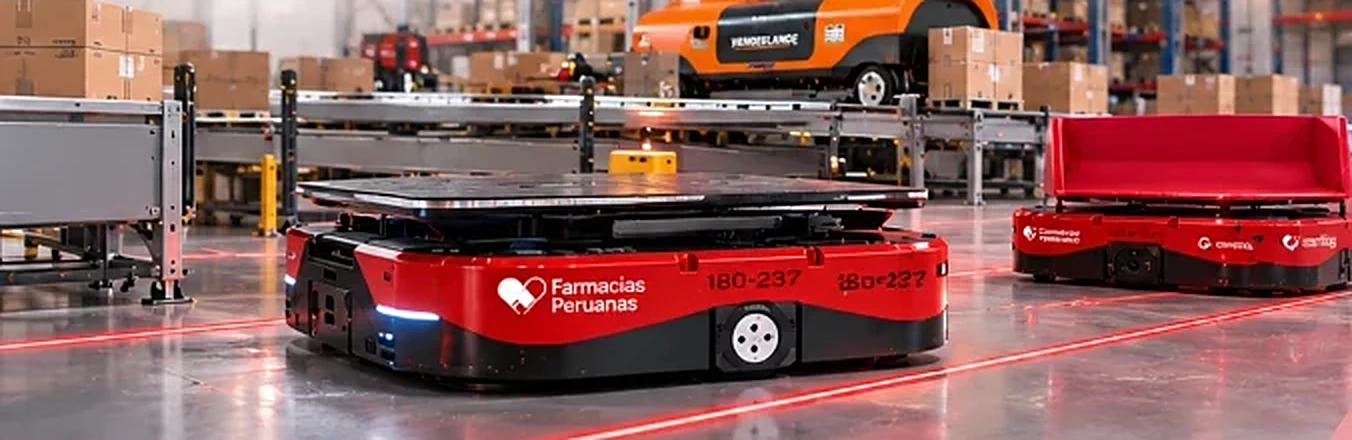
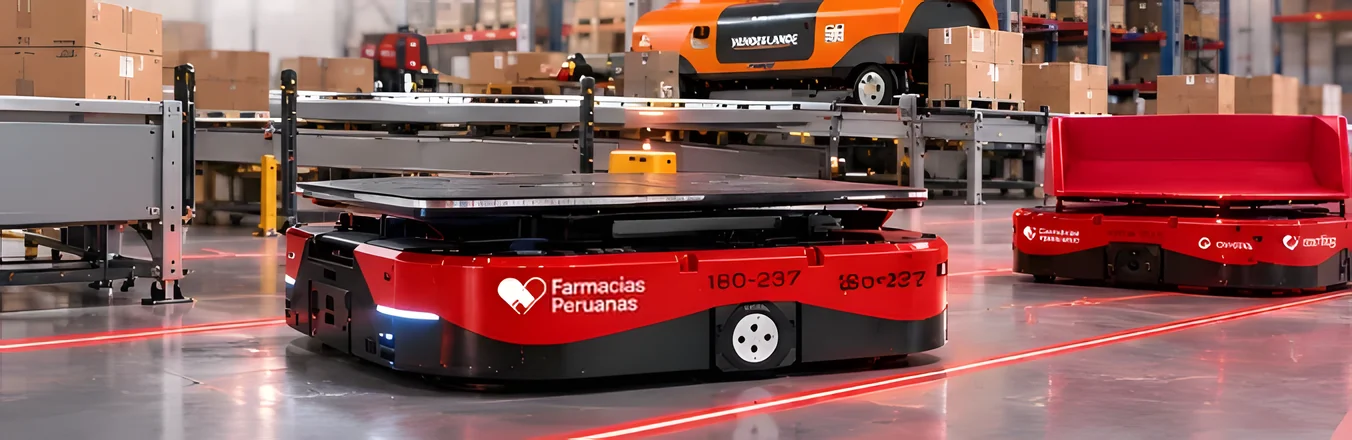
60%

diff --git a/frontend/src/index.html b/frontend/src/index.html
@@ -10,9 +10,7 @@
   <meta name="apple-mobile-web-app-title" content="Atlas">
   <meta name="description" content="Atlas — Plataforma de Ingeniería Logística de Farmacias Peruanas">
   <meta name="color-scheme" content="light dark">
-  <link rel="icon" type="image/png" sizes="64x64" href="faviconFape.png">
-  <link rel="icon" type="image/png" sizes="32x32" href="marca/fp-icono-32.png">
-  <link rel="icon" type="image/png" sizes="192x192" href="marca/fp-icono-192.png">
+  <link rel="icon" type="image/png" sizes="64x64" href="atlasImg.png">
   <link rel="apple-touch-icon" sizes="180x180" href="marca/fp-apple-touch.png">
   <link rel="prefetch" href="marca/atlas-carga.webp">
   <link rel="preconnect" href="https://fonts.googleapis.com">

diff --git a/frontend/src/app/features/auth/login/login.html b/frontend/src/app/features/auth/login/login.html
@@ -1,7 +1,12 @@
 <div class="login">
   <section #hero class="login__hero">
     <div class="login__foto" aria-hidden="true">
-      <img src="marca/login-almacen.webp" alt="" width="1352" height="440" fetchpriority="high" />
+      <img
+        src="marca/login-almacen.webp"
+        srcset="marca/login-almacen-800.webp 800w, marca/login-almacen.webp 1352w, marca/login-almacen-2704.webp 2704w"
+        sizes="(max-width: 1023px) 100vw, 69vw"
+        alt="" width="2704" height="880" fetchpriority="high" decoding="async" />
+
       <span class="login__laser"></span>
     </div>
     <span class="login__cinta" aria-hidden="true"></span>

diff --git a/frontend/src/app/features/panels/panel-shell.html b/frontend/src/app/features/panels/panel-shell.html
@@ -11,7 +11,7 @@
     [attr.inert]="!escritorio() && !drawerAbierto() ? '' : null"
   >
     <div class="shell__brand">
-      <img class="shell__brand-mark" src="marca/atlas-marca.webp" alt="Atlas" width="40" height="40" />
+      <img class="shell__brand-mark" src="atlasImg.png" alt="Atlas" width="40" height="40" />
       <span class="shell__brand-text">
         <span class="shell__brand-kicker">Farmacias Peruanas</span>
         <span class="shell__brand-title">{{ panel().nombre }}</span>

diff --git a/frontend/src/app/features/launcher/launcher.html b/frontend/src/app/features/launcher/launcher.html
@@ -3,7 +3,7 @@
 
   <header class="launcher__topbar">
     <div class="launcher__brand">
-      <img class="launcher__brand-mark" src="marca/atlas-marca.webp" alt="Atlas" width="44" height="44" />
+      <img class="launcher__brand-mark" src="atlasImg.png" alt="Atlas" width="44" height="44" />
       <span class="launcher__brand-text">
         <span class="launcher__brand-kicker">Farmacias Peruanas</span>
         <span class="launcher__brand-name">Interfaz Atlas</span>

diff --git a/README.md b/README.md
@@ -82,7 +82,7 @@ Cada panel del backend tiene sus propias capas:
 
 | Recurso | Uso |
 | --- | --- |
-| `public/marca/login-almacen.webp` | Foto del almacén con robots — parte baja del hero del login. |
+| `public/marca/login-almacen{-800,,-2704}.webp` | Foto del almacén con robots (800 / 1352 / 2704 px, escalada 4× con Real-ESRGAN) — parte baja del hero del login, servida con `srcset`. |
 | `public/marca/atlas-marca.webp` | Emblema Atlas — sidebar, launcher y pantalla de carga. |
 | `public/faviconFape.png`, `public/marca/fp-icono-*.png`, `public/marca/fp-apple-touch.png` | Favicon e íconos de la app (corazón FP, fondo transparente; el de iOS sobre blanco). |
 | `public/marca/atlas-carga.webp` | Fondo de la pantalla de carga. |
